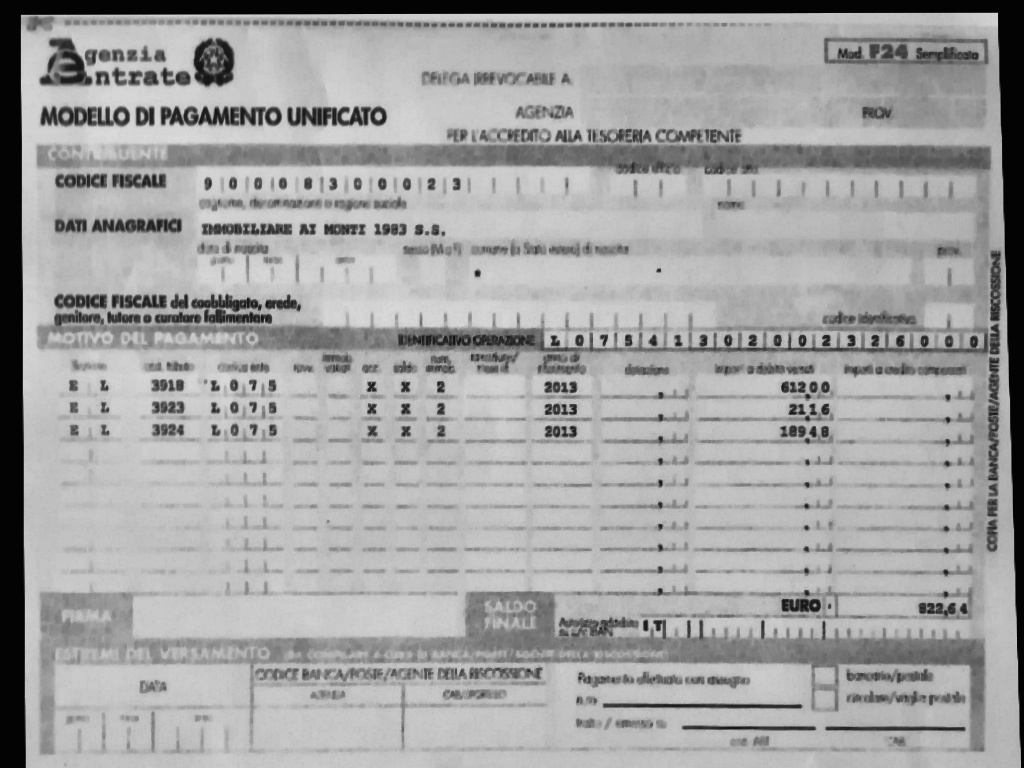
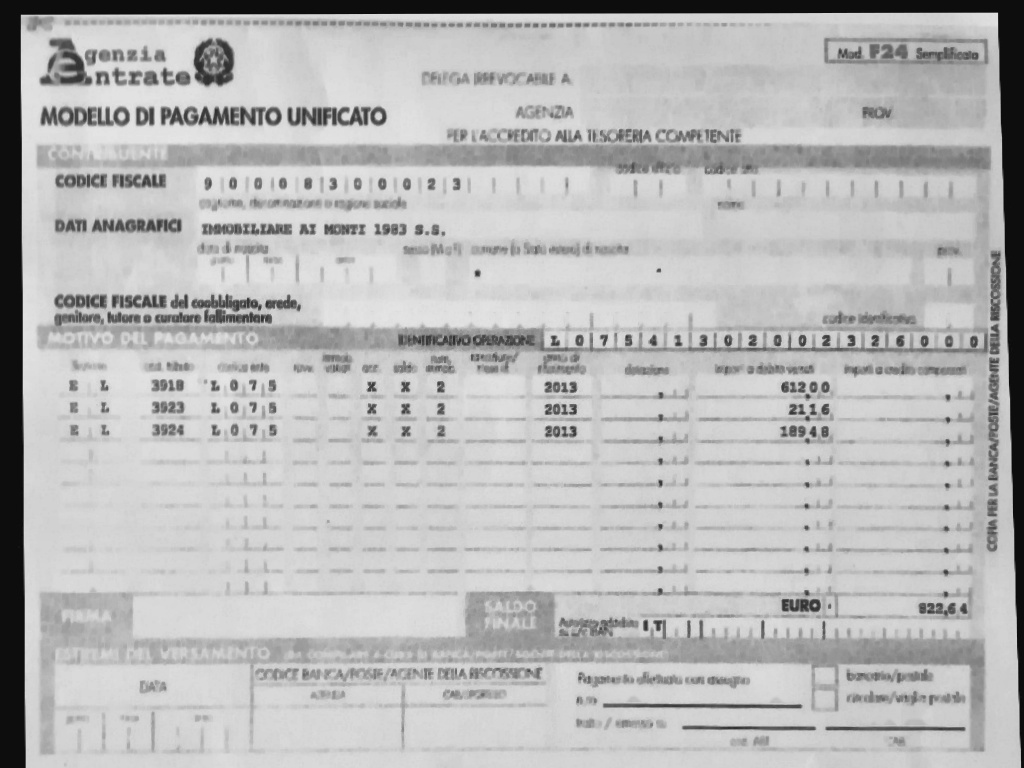
included line removal

Changed region(s): [[0.0, 0.0, 1.0, 1.0], [0.2188, 0.75, 0.25, 0.7812]]

diff --git a/imgskew.py b/imgskew.py
@@ -17,6 +17,65 @@ def erosion(img):
   img = cv2.erode(img,kernel,iterations = 1)
   return img
 
+def adjustGamma(image, gamma=1.0):
+	# build a lookup table mapping the pixel values [0, 255] to
+	# their adjusted gamma values
+	invGamma = 1.0 / gamma
+	table = np.array([((i / 255.0) ** invGamma) * 255
+		for i in np.arange(0, 256)]).astype("uint8")
+ 
+	# apply gamma correction using the lookup table
+	return cv2.LUT(image, table)
+
+def removelines(img_gray):
+
+
+  
+  template = cv2.imread('./patch/temp1.png',0)
+  w, h = template.shape[::-1]
+  res = cv2.matchTemplate(img_gray,template,cv2.TM_CCOEFF_NORMED)
+  threshold = 0.75
+  loc = np.where( res >= threshold)
+  img_cpy = img_gray
+  for pt in zip(*loc[::-1]):
+   
+    p = ((pt[0]+10,pt[1]+4), (pt[0] + w-11, pt[1] + h-4)) 
+    intensity = 255
+    cv2.rectangle(img_cpy, p[0],p[1], intensity, cv2.FILLED)
+    
+  ret,mask = cv2.threshold(img_cpy,254,255,cv2.THRESH_BINARY)
+  
+  img_gray = cv2.inpaint(img_gray,mask,3,cv2.INPAINT_TELEA)
+  return img_gray
+
+def removeLinesInBetween(img_gray):
+
+
+  
+  template = cv2.imread('./patch/temp2.png',0)
+  w, h = template.shape[::-1]
+  res = cv2.matchTemplate(img_gray,template,cv2.TM_CCOEFF_NORMED)
+  threshold = 0.85
+  loc = np.where( res >= threshold)
+  img_cpy = img_gray
+  for pt in zip(*loc[::-1]):
+   
+    p = ((pt[0]+3,pt[1]+3), (pt[0] + w-3, pt[1] + h-3)) 
+    intensity = 255
+    cv2.rectangle(img_cpy, p[0],p[1], intensity, cv2.FILLED)
+    
+  ret,mask = cv2.threshold(img_cpy,254,255,cv2.THRESH_BINARY)
+  
+  img_gray = cv2.inpaint(img_gray,mask,3,cv2.INPAINT_TELEA)
+    
+
+
+    
+    
+  return img_gray
+
+   
+
 
 def imageSkew(imgbase64):
   #commenting the template code as we are using standard template
@@ -66,6 +125,9 @@ def imageSkew(imgbase64):
     print("Calculated cv2.wrap")
     im_out = imgDenoise(im_out)
     im_out = erosion(im_out)
+    im_out = adjustGamma(im_out,1.5)
+    im_out = removelines(im_out)
+    im_out = removeLinesInBetween(im_out)
     cv2.imwrite('./sc.jpg',im_out)
     retval, buffer = cv2.imencode('.jpg', im_out)
 

diff --git a/endpt.py b/endpt.py
@@ -62,13 +62,15 @@ def findEndPt(image ,temp,count):
 
   if count<=3 :
     return(int((int(scene_corners[3,0,0])+int(scene_corners[0,0,0]))/2))
-  else:
-    return(int(scene_corners[2,0,0] ))
+  elif count>3 and count <=9:
+    return(int((int(scene_corners[2,0,0])+int(scene_corners[1,0,0]))/2))
+  else :
+    return(int((int(scene_corners[2,0,1])+int(scene_corners[3,0,1]))/2))
 
 def findpt(img_path):
     
     points = []
-    for i in range(1,10):
+    for i in range(1,12):
         img_template='./patch/'+str(i)+'.png';
         pt = findEndPt(img_path,img_template,i)
         points.append(pt)
